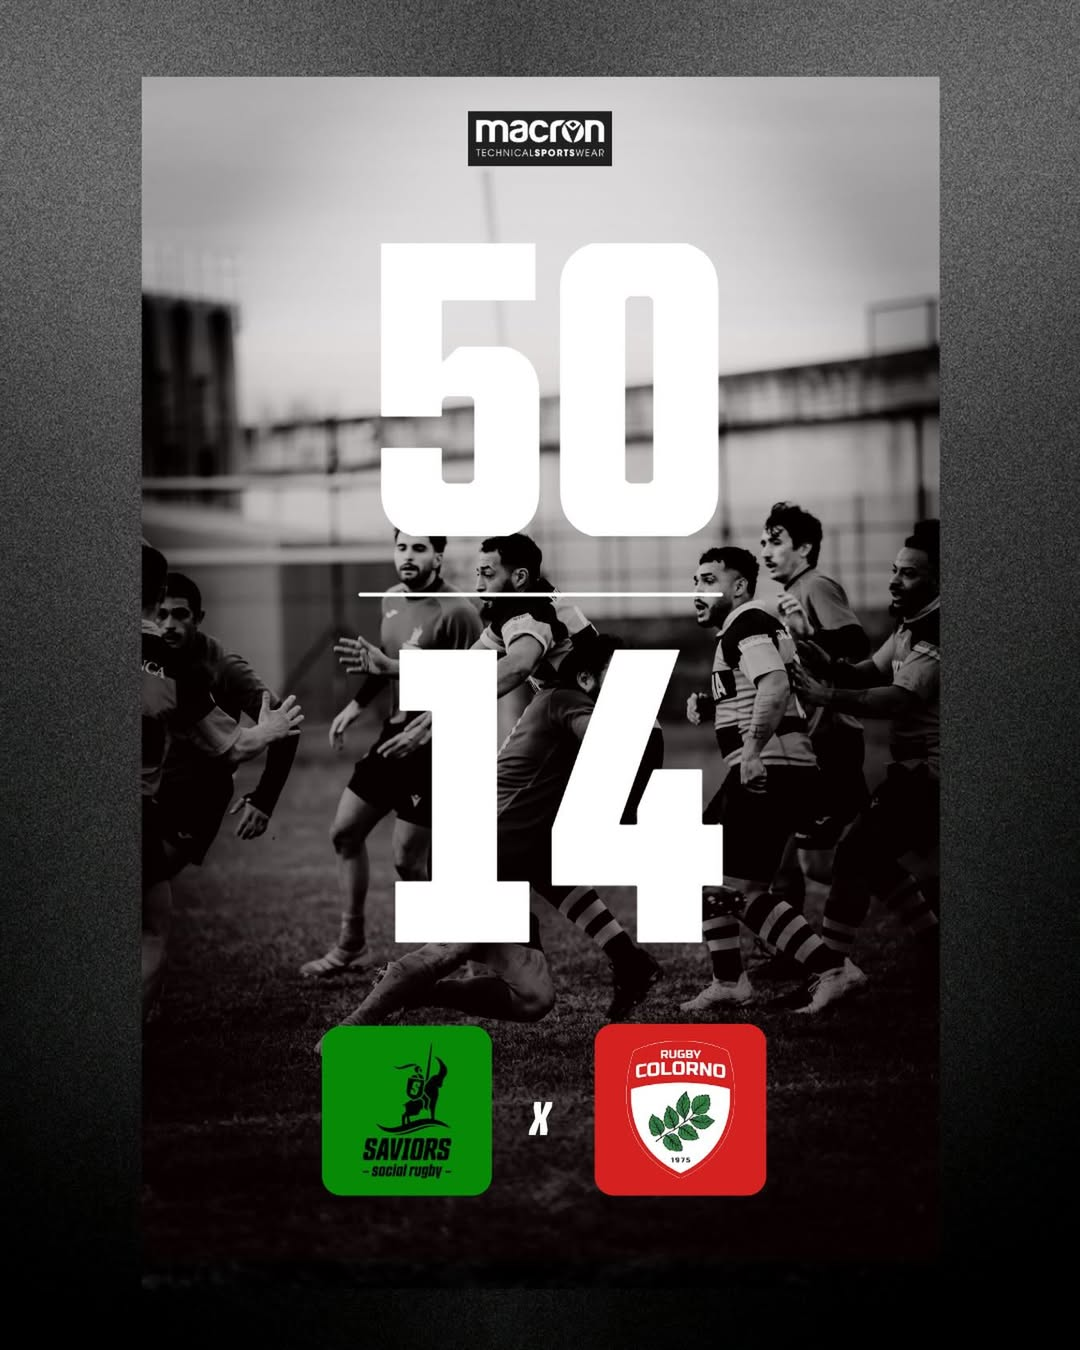
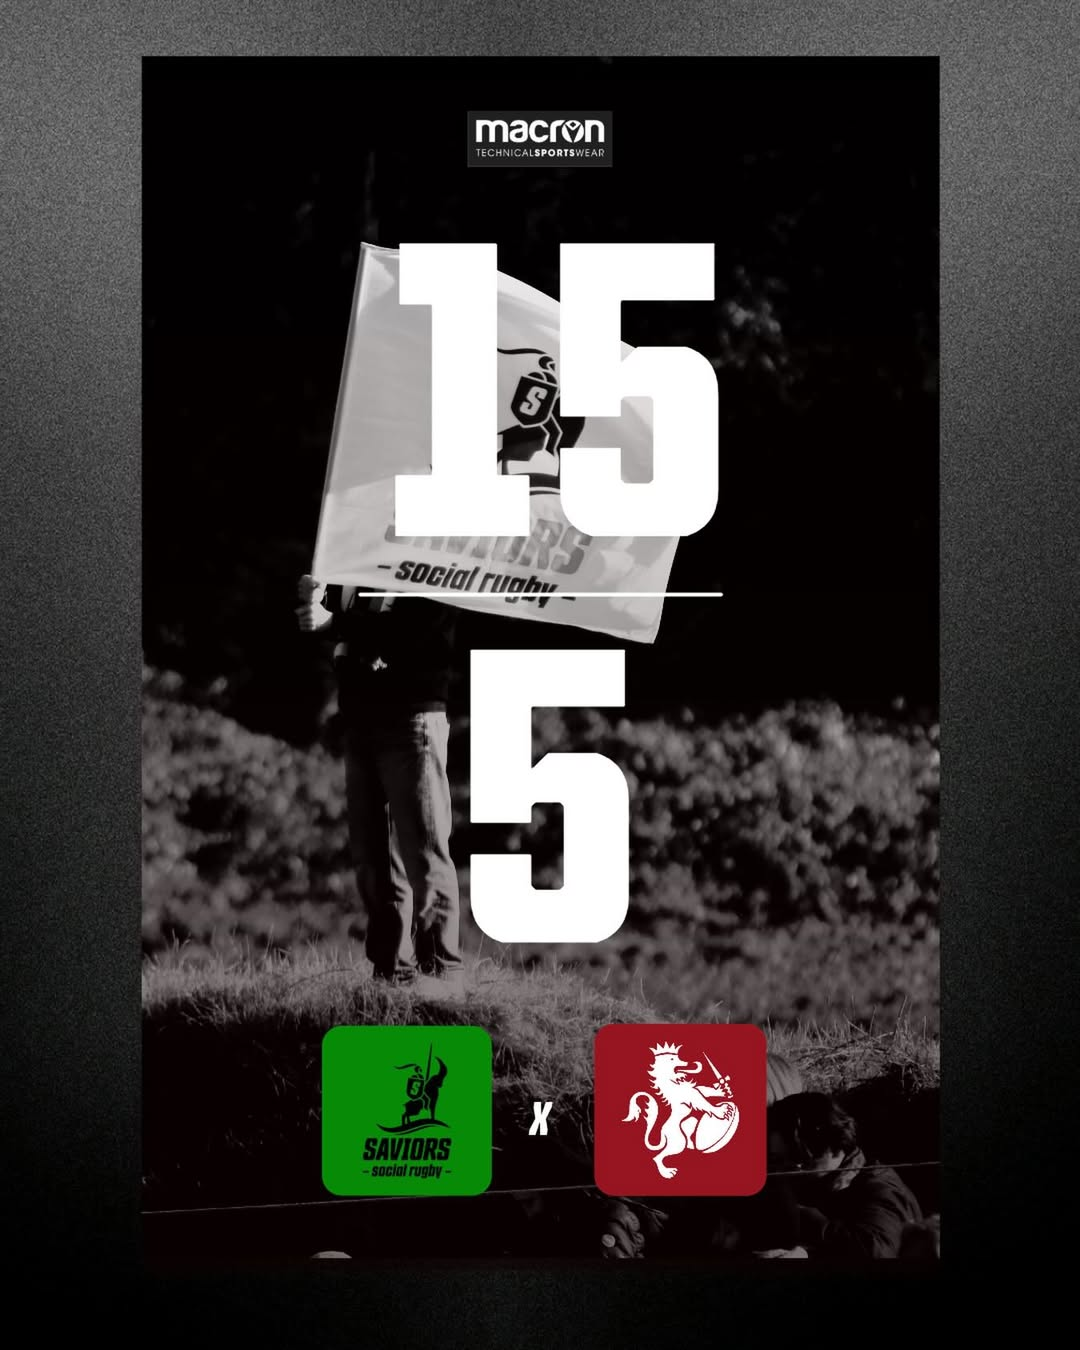
modena

diff --git a/content/posts/championship/20252026/index.md b/content/posts/championship/20252026/index.md
@@ -19,16 +19,16 @@ weight: 3
 
 ## Classifica
 
-|     | Team                         | Punti | G/V/P/S | Pt. fatti | Pt. subiti | Mt. fatte | Diff Pt. |
-| --- | ---------------------------- | ----- | ------- | --------- | ---------- | --------- | -------- |
-| 1   | Faenza Rugby                 | 20    | 5/4/0/1 | 182       | 96         | 27        | 86       |
-| 2   | Modena Rugby 1965 nr. 2      | 19    | 5/4/0/1 | 169       | 79         | 24        | 90       |
-| 3   | Ravenna Rugby FC             | 18    | 5/3/0/2 | 198       | 82         | 30        | 116      |
-| 4   | Rugby Guastalla 2008         | 16    | 5/3/0/2 | 127       | 108        | 19        | 19       |
-| 5   | Romagna RFC                  | 16    | 5/3/0/2 | 104       | 95         | 15        | 9        |
-| 6   | **Saviors Social Rugby ASD** | 9     | 5/2/0/3 | 120       | 89         | 19        | 31       |
-| 7   | Rugby Colorno 1975           | 6     | 5/1/0/4 | 90        | 106        | 12        | -16      |
-| 8   | Giallo Dozza Bologna         | 0     | 5/0/0/5 | 26        | 361        | 4         | -335     |
+|     | Team                         | Punti | G/V/P/S  | Pt. fatti | Pt. subiti | Mt. fatte | Diff Pt. |
+| --- | ---------------------------- | ----- | -------- | --------- | ---------- | --------- | -------- |
+| 1   | Ravenna Rugby FC             | 27    | 7/5/0/2  | 243       | 94         | 37        | 149      |
+| 2   | Modena Rugby 1965 nr. 2      | 27    | 7/5/0/1  | 201       | 101        | 28        | 100      |
+| 3   | Faenza Rugby                 | 21    | 7/4/0/3  | 197       | 126        | 30        | 71       |
+| 4   | Romagna RFC                  | 21    | 7/4/0/3  | 175       | 119        | 26        | 56       |
+| 5   | **Saviors Social Rugby ASD** | 18    | 7/4/0/3  | 185       | 108        | 29        | 77       |
+| 6   | Rugby Guastalla 2008         | 17    | 6/3/0/3  | 130       | 125        | 21        | 14       |
+| 7   | Rugby Colorno 1975           | 2     | 7/1/0/6  | 104       | 184        | 14        | -80      |
+| 8   | Giallo Dozza Bologna         | 0     | 65/0/0/6 | 33        | 420        | 5         | -387     |
 
 ## Calendario
 

diff --git a/content/posts/last-match/index.md b/content/posts/last-match/index.md
@@ -1,5 +1,5 @@
 ---
-title: "Ultimo Match:<br/>Saviors Social Rugby vs Colorno (50 - 14)"
+title: "Ultimo Match:<br/>Saviors Social Rugby vs Faenza (15 - 5)"
 date: "2025-12-08"
 sharingLinks:
   - facebook
@@ -7,7 +7,7 @@ sharingLinks:
   - telegram
 tags:
   - Saviors
-  - Colorno
+  - Faenza
 showDate: false
 showHeadingAnchors: false
 showHero: false
@@ -17,8 +17,8 @@ hide: true
 
 ![](./featured.jpg)
 
-| Giornata  | Data       | Orario | Casa                         | Ospiti             | Indirizzo                               |
-| --------- | ---------- | ------ | ---------------------------- | ------------------ | --------------------------------------- |
-| 6ᵃ Andata | 25/01/2026 | 14:30  | **Saviors Social Rugby ASD** | Rugby Colorno 1975 | Via Roversano 2815, 47522 - Cesena (FC) |
+| Giornata  | Data       | Orario | Casa                         | Ospiti       | Indirizzo                               |
+| --------- | ---------- | ------ | ---------------------------- | ------------ | --------------------------------------- |
+| 7ᵃ Andata | 01/02/2026 | 14:30  | **Saviors Social Rugby ASD** | Faenza Rugby | Via Roversano 2815, 47522 - Cesena (FC) |
 
 ![](./team.jpg)

diff --git a/content/posts/next-match/index.md b/content/posts/next-match/index.md
@@ -1,5 +1,5 @@
 ---
-title: "Prossimo Match:<br/>Saviors Social Rugby vs Faenza"
+title: "Prossimo Match:<br/>Modena vs Saviors Social Rugby"
 date: "2025-12-08"
 sharingLinks:
   - facebook
@@ -7,7 +7,7 @@ sharingLinks:
   - telegram
 tags:
   - Saviors
-  - Faenza
+  - Modena
 showDate: false
 showHeadingAnchors: false
 showHero: false
@@ -17,8 +17,8 @@ hide: true
 
 <!-- ![](./team.jpg) -->
 
-| Giornata  | Data       | Orario | Casa                         | Ospiti       | Indirizzo                               |
-| --------- | ---------- | ------ | ---------------------------- | ------------ | --------------------------------------- |
-| 7ᵃ Andata | 01/02/2026 | 14:30  | **Saviors Social Rugby ASD** | Faenza Rugby | Via Roversano 2815, 47522 - Cesena (FC) |
+| Giornata   | Data       | Orario | Casa                    | Ospiti                       | Indirizzo   |
+| ---------- | ---------- | ------ | ----------------------- | ---------------------------- | ----------- |
+| 1ᵃ Ritorno | 15/02/2026 | 14:30  | Modena Rugby 1965 nr. 2 | **Saviors Social Rugby ASD** | Modena (MO) |
 
 ![](./featured.jpg)
